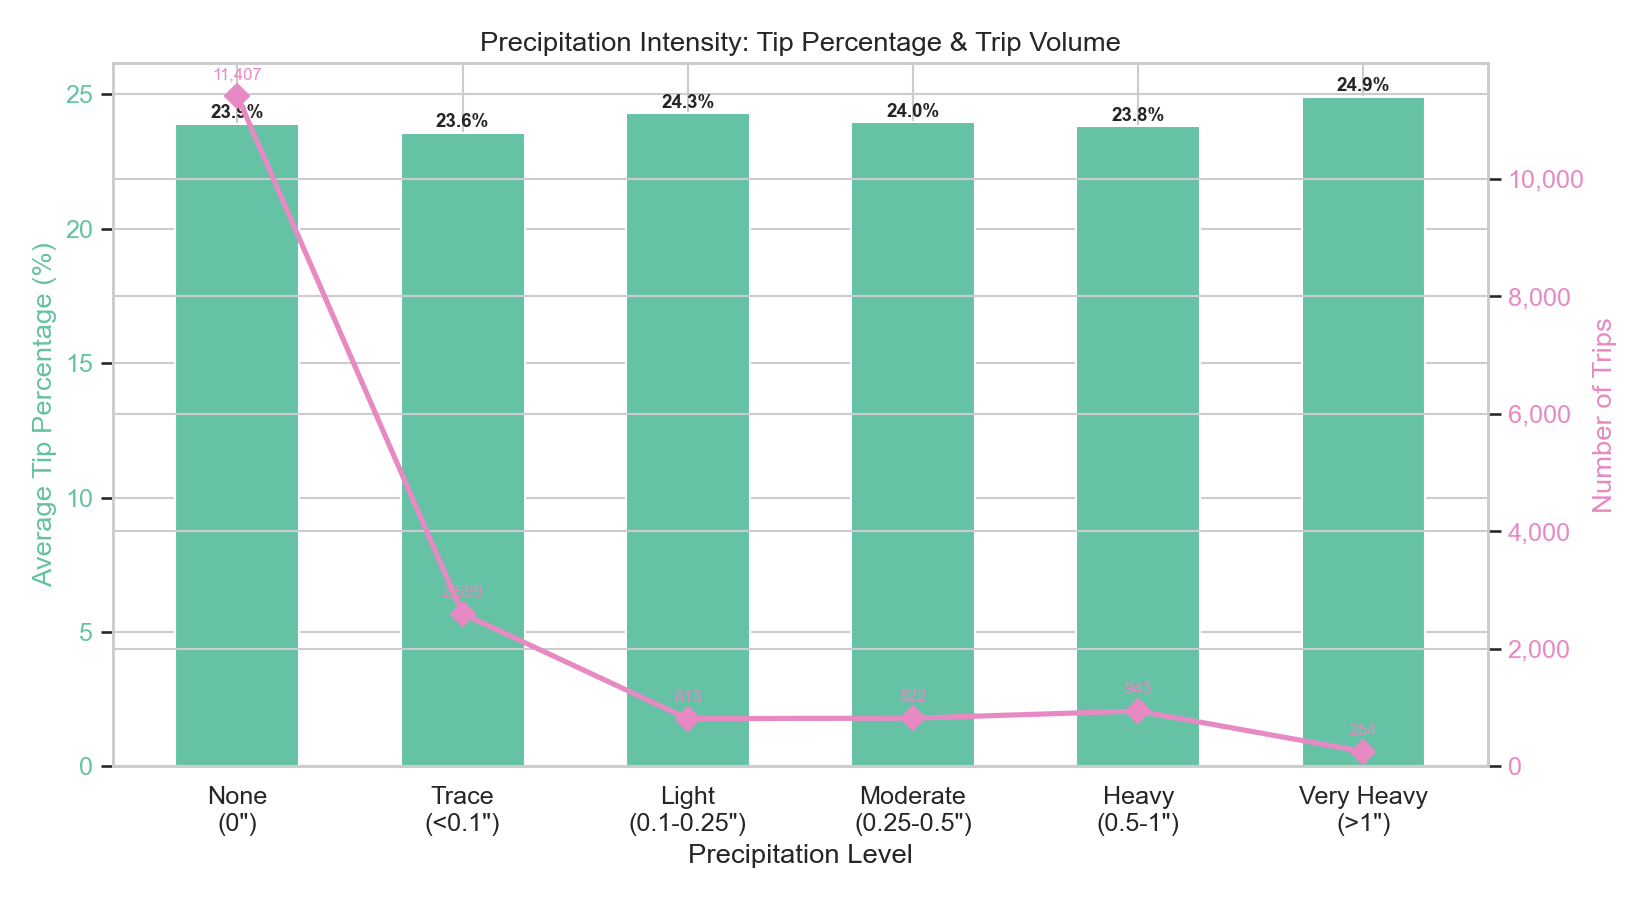
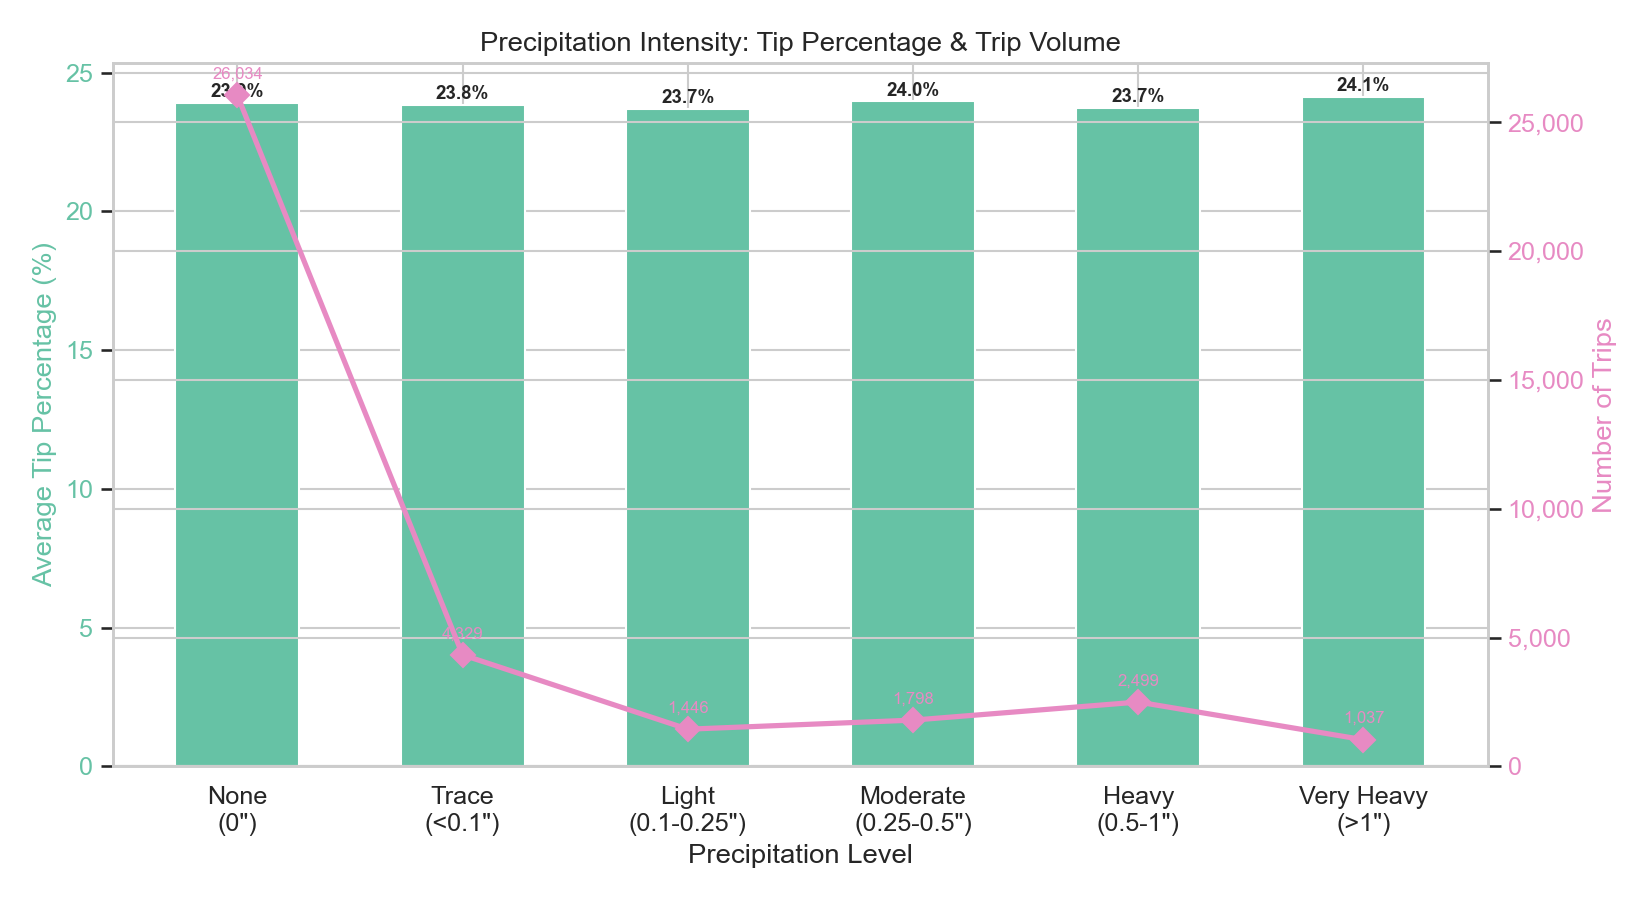
Improved data sampling and fixed all chart issues
- Taxi fetcher: 104 sample days (every Wed + Sat), 8 hour windows
  (0,3,6,9,12,15,18,21) per day = full 24h coverage + weekday/weekend
- Now 6 weather groups: Clear, Light Rain, Heavy Rain, Snow, Freezing, Extreme Heat
- Chart 1: linear trend line instead of quadratic
- Chart 2: x-axis only shows sampled hours (no misleading gaps)
- Chart 5: y-axis starts at 0, labels repositioned
- Chart 6: all 6 weather groups shown, N/A for missing combos
- Chart 7: only shows Wed vs Sat (actual sampled days), no blank cells
- Chart 8: annotations no longer overlap title
- Added key stats summary output (tip pct by weather, hour, month, weekday)

diff --git a/scripts/generate_visualizations.py b/scripts/generate_visualizations.py
@@ -109,10 +109,11 @@ def plot_temp_vs_tip(df):
         ax.scatter(subset["TMAX"], subset["avg_tip_pct"], s=60, alpha=0.75,
                    color=WEATHER_COLORS.get(cond, "gray"), label=cond, edgecolors="white", linewidth=0.8)
 
-    z = np.polyfit(daily["TMAX"], daily["avg_tip_pct"], 2)
+    z = np.polyfit(daily["TMAX"], daily["avg_tip_pct"], 1)
     p = np.poly1d(z)
     x_line = np.linspace(daily["TMAX"].min(), daily["TMAX"].max(), 100)
-    ax.plot(x_line, p(x_line), color="black", linewidth=2, linestyle="--", alpha=0.6, label="Trend")
+    ax.plot(x_line, p(x_line), color="black", linewidth=2, linestyle="--", alpha=0.6,
+            label=f"Linear Trend (slope={z[0]:.3f})")
 
     ax.set_xlabel("Daily Max Temperature (°F)")
     ax.set_ylabel("Average Tip Percentage (%)")
@@ -149,8 +150,10 @@ def plot_hourly_by_weather(df):
     ax.set_xlabel("Hour of Day")
     ax.set_ylabel("Average Tip Percentage (%)")
     ax.set_title("Hourly Tipping Patterns by Weather Condition")
-    ax.set_xticks(range(0, 24))
-    ax.set_xticklabels([f"{h}:00" for h in range(24)], rotation=45, ha="right")
+    # Only label hours we actually have data for
+    sampled_hours = sorted(hourly["pickup_hour"].unique())
+    ax.set_xticks(sampled_hours)
+    ax.set_xticklabels([f"{h}:00" for h in sampled_hours], rotation=45, ha="right")
     ax.legend(title="Weather")
     fig.tight_layout()
     fig.savefig(os.path.join(OUT_DIR, "02_hourly_tip_by_weather.png"), dpi=150)
@@ -281,14 +284,15 @@ def plot_distance_by_weather(df):
         med = subset.median()
         mean = subset.mean()
         n = len(subset)
-        ax.text(i + 1, med + 0.3, f"median: {med:.1f} mi", ha="center", fontsize=8, fontweight="bold")
-        ax.text(i + 1, mean + 0.8, f"mean: {mean:.1f} mi", ha="center", fontsize=8, color="blue")
-        ax.text(i + 1, -1.5, f"n={n:,}", ha="center", fontsize=8, color="gray")
+        q75 = subset.quantile(0.75)
+        ax.text(i + 1, med + 0.2, f"median: {med:.1f} mi", ha="center", fontsize=8, fontweight="bold")
+        ax.text(i + 1, q75 + 1.0, f"mean: {mean:.1f} mi", ha="center", fontsize=8, color="blue")
+        ax.text(i + 1, 16.5, f"n={n:,}", ha="center", fontsize=8, color="gray")
 
     ax.set_xlabel("Weather Condition")
     ax.set_ylabel("Trip Distance (miles)")
     ax.set_title("Trip Distance Distribution by Weather")
-    ax.set_ylim(-2.5, 25)
+    ax.set_ylim(0, 18)
     fig.tight_layout()
     fig.savefig(os.path.join(OUT_DIR, "05_distance_by_weather.png"), dpi=150)
     plt.close(fig)
@@ -307,8 +311,8 @@ def plot_weekend_weekday(df):
         count=("tip_pct", "size"),
     ).reset_index()
 
-    # Only keep groups with at least 50 data points
-    agg = agg[agg["count"] >= 50]
+    # Only keep groups with at least 20 data points
+    agg = agg[agg["count"] >= 20]
 
     order = get_weather_order(cc)
     # Only keep conditions that have both weekday AND weekend data
@@ -362,29 +366,28 @@ def plot_weekend_weekday(df):
 # VIZ 7: Trip Volume Heatmap (Hour x Day of Week) - full 0-23
 # =========================================================================
 def plot_trip_heatmap(df):
-    day_order = ["Monday", "Tuesday", "Wednesday", "Thursday", "Friday", "Saturday", "Sunday"]
+    """Only show the sampled hours (no blank/zero columns)."""
+    # We only sample Wed and Sat, so only those days have data
+    day_order = ["Wednesday", "Saturday"]
 
     pivot = df.pivot_table(
         index="day_name", columns="pickup_hour",
         values="fare_amount", aggfunc="count",
     ).reindex(day_order)
 
-    # Ensure all 24 hours are represented
-    for h in range(24):
-        if h not in pivot.columns:
-            pivot[h] = 0
-    pivot = pivot[sorted(pivot.columns)]
+    # Keep only hours that have data
+    pivot = pivot.loc[:, pivot.sum() > 0]
 
-    fig, ax = plt.subplots(figsize=(16, 5))
+    fig, ax = plt.subplots(figsize=(12, 4))
     sns.heatmap(
         pivot, cmap="YlOrRd", annot=True, fmt=".0f",
         linewidths=0.5, ax=ax, cbar_kws={"label": "Trip Count"},
-        annot_kws={"size": 7},
+        annot_kws={"size": 9},
     )
     ax.set_xlabel("Hour of Day")
     ax.set_ylabel("")
-    ax.set_xticklabels([f"{h}" for h in range(24)])
-    ax.set_title("Trip Volume Heatmap: Day of Week x Hour of Day")
+    ax.set_xticklabels([f"{int(h)}:00" for h in pivot.columns])
+    ax.set_title("Trip Volume: Weekday (Wed) vs. Weekend (Sat) by Hour")
     fig.tight_layout()
     fig.savefig(os.path.join(OUT_DIR, "07_trip_heatmap.png"), dpi=150)
     plt.close(fig)
@@ -418,13 +421,14 @@ def plot_fare_premium(df):
         ax.annotate(
             f"${row.avg_fare_per_mile:.2f}/mi\n({row.count:,} trips)\navg dist: {row.avg_distance:.1f} mi",
             xy=(bar.get_x() + bar.get_width() / 2, bar.get_height()),
-            xytext=(0, 8), textcoords="offset points", ha="center", fontsize=9,
+            xytext=(0, 6), textcoords="offset points", ha="center", fontsize=8,
         )
 
     ax.set_xlabel("Weather Condition")
     ax.set_ylabel("Average Fare per Mile ($)")
-    ax.set_title("Fare Per Mile by Weather Condition")
-    ax.set_ylim(bottom=0)
+    ax.set_title("Fare Per Mile by Weather Condition", pad=20)
+    max_val = agg["avg_fare_per_mile"].max()
+    ax.set_ylim(bottom=0, top=max_val * 1.35)
     fig.tight_layout()
     fig.savefig(os.path.join(OUT_DIR, "08_fare_premium.png"), dpi=150)
     plt.close(fig)
@@ -456,6 +460,55 @@ def main():
     plot_fare_premium(df)
 
     print(f"\nAll charts saved to: {os.path.abspath(OUT_DIR)}/")
+
+    # =====================================================================
+    # KEY STATS SUMMARY
+    # =====================================================================
+    cc = df[(df["tip_pct"].notna())].copy()
+
+    print("\n" + "=" * 70)
+    print("KEY STATISTICS SUMMARY")
+    print("=" * 70)
+
+    print(f"\nTotal records: {len(df):,}")
+    print(f"Credit card trips (with tip data): {len(cc):,}")
+    print(f"Unique dates sampled: {df['pickup_date'].nunique()}")
+    print(f"Date range: {df['pickup_date'].min().date()} to {df['pickup_date'].max().date()}")
+
+    print(f"\n--- Average Tip % by Weather Condition ---")
+    tip_by_weather = cc.groupby("weather_condition").agg(
+        avg_tip_pct=("tip_pct", "mean"),
+        median_tip_pct=("tip_pct", "median"),
+        avg_tip_amt=("tip_amount", "mean"),
+        avg_fare=("fare_amount", "mean"),
+        avg_distance=("trip_distance", "mean"),
+        trip_count=("tip_pct", "size"),
+    ).round(2)
+    print(tip_by_weather.to_string())
+
+    print(f"\n--- Average Tip % by Hour ---")
+    tip_by_hour = cc.groupby("pickup_hour").agg(
+        avg_tip_pct=("tip_pct", "mean"),
+        trip_count=("tip_pct", "size"),
+    ).round(2)
+    print(tip_by_hour.to_string())
+
+    print(f"\n--- Average Tip % by Month ---")
+    tip_by_month = cc.groupby("month").agg(
+        avg_tip_pct=("tip_pct", "mean"),
+        trip_count=("tip_pct", "size"),
+    ).round(2)
+    print(tip_by_month.to_string())
+
+    print(f"\n--- Weekday vs Weekend ---")
+    cc["period"] = cc["is_weekend"].map({True: "Weekend (Sat)", False: "Weekday (Wed)"})
+    tip_by_period = cc.groupby("period").agg(
+        avg_tip_pct=("tip_pct", "mean"),
+        trip_count=("tip_pct", "size"),
+    ).round(2)
+    print(tip_by_period.to_string())
+
+    print("\n" + "=" * 70)
 
 
 if __name__ == "__main__":

diff --git a/dags/utils/taxi_fetcher.py b/dags/utils/taxi_fetcher.py
@@ -1,12 +1,12 @@
 """
 Fetch NYC Yellow Taxi trip data from the Socrata Open Data API.
 
-Uses the sodapy library to paginate through the NYC TLC dataset.
-The data is returned as a list of dicts (JSON records).
+Uses the sodapy library to pull data spread across the full year with
+coverage of all 24 hours.
 """
 
 import logging
-from datetime import datetime
+from datetime import datetime, timedelta
 from typing import Optional
 
 import pandas as pd
@@ -30,50 +30,57 @@ def fetch_taxi_data(
     limit: Optional[int] = None,
 ) -> pd.DataFrame:
     """
-    Fetch Yellow Taxi trip records spread across the full date range.
+    Fetch Yellow Taxi trip records spread across every week of the year,
+    with coverage of all 24 hours.
 
-    Samples from 4 different days per month (1st, 8th, 15th, 22nd) to
-    ensure coverage of all hours, diverse weather conditions, and
-    weekday/weekend representation.
+    Strategy: pick 2 days per week (52 weeks = 104 sample days).
+    For each day, fetch from 4 explicit hour ranges (morning, midday,
+    evening, night) to guarantee full 0-23 hour coverage.
 
     Args:
-        start_date: Inclusive start date (YYYY-MM-DD).
-        end_date:   Inclusive end date   (YYYY-MM-DD).
-        limit:      Max total rows to fetch.  None -> TAXI_FETCH_LIMIT from config.
+        start_date: Inclusive start (YYYY-MM-DD).
+        end_date:   Inclusive end   (YYYY-MM-DD).
+        limit:      Max total rows. Default from config.
 
     Returns:
         pandas DataFrame with taxi trip records.
     """
-    from datetime import timedelta
-
     limit = limit or TAXI_FETCH_LIMIT
     start_dt = datetime.strptime(start_date, "%Y-%m-%d")
     end_dt = datetime.strptime(end_date, "%Y-%m-%d")
 
-    # Build sample days: 4 days per month (1st, 8th, 15th, 22nd)
-    sample_days = [1, 8, 15, 22]
-    date_ranges = []
-    current = start_dt.replace(day=1)
-    while current < end_dt:
-        for day in sample_days:
-            try:
-                day_start = current.replace(day=day)
-            except ValueError:
-                continue
-            if day_start < start_dt or day_start > end_dt:
-                continue
-            day_end = day_start + timedelta(days=1)
-            date_ranges.append((day_start, day_end))
+    # Pick 2 days per week: Wednesday (weekday) and Saturday (weekend)
+    sample_days = []
+    current = start_dt
+    while current <= end_dt:
+        weekday = current.weekday()
+        if weekday == 2:  # Wednesday
+            sample_days.append(current)
+        elif weekday == 5:  # Saturday
+            sample_days.append(current)
+        current += timedelta(days=1)
 
-        if current.month == 12:
-            current = current.replace(year=current.year + 1, month=1, day=1)
-        else:
-            current = current.replace(month=current.month + 1, day=1)
+    # 8 specific 1-hour windows spread across 24h to guarantee
+    # full hour coverage. Each window spans exactly 1 hour.
+    hour_ranges = [
+        ("00:00:00", "01:00:00"),  # hour 0
+        ("03:00:00", "04:00:00"),  # hour 3
+        ("06:00:00", "07:00:00"),  # hour 6
+        ("09:00:00", "10:00:00"),  # hour 9
+        ("12:00:00", "13:00:00"),  # hour 12
+        ("15:00:00", "16:00:00"),  # hour 15
+        ("18:00:00", "19:00:00"),  # hour 18
+        ("21:00:00", "22:00:00"),  # hour 21
+    ]
 
-    per_day = max(limit // len(date_ranges), 200)
+    total_slots = len(sample_days) * len(hour_ranges)
+    per_slot = max(limit // total_slots, 20)
+
     logger.info(
-        "Fetching ~%d records/day across %d sample days (%s to %s), total target: %d",
-        per_day, len(date_ranges), start_date, end_date, limit,
+        "Fetching ~%d records per slot, %d sample days x %d hour ranges = %d slots, "
+        "target: %d total records (%s to %s)",
+        per_slot, len(sample_days), len(hour_ranges), total_slots,
+        limit, start_date, end_date,
     )
 
     client = Socrata(
@@ -90,44 +97,37 @@ def fetch_taxi_data(
     )
 
     all_records = []
+    errors = 0
 
-    # For each sample day, fetch from 6 different offsets to cover all hours.
-    # NYC has ~300K-400K taxi trips/day. Offsets spaced ~50K apart jump
-    # roughly 3-4 hours through the day, giving us coverage of 0-23h.
-    offsets = [0, 50000, 100000, 150000, 200000, 250000]
-    per_offset = max(per_day // len(offsets), 50)
-
-    for day_start, day_end in date_ranges:
-        ds = day_start.strftime("%Y-%m-%dT00:00:00")
-        de = day_end.strftime("%Y-%m-%dT00:00:00")
-        day_str = day_start.strftime("%Y-%m-%d")
+    for day in sample_days:
+        day_str = day.strftime("%Y-%m-%d")
         day_total = 0
 
-        where_clause = (
-            f"tpep_pickup_datetime >= '{ds}' "
-            f"AND tpep_pickup_datetime < '{de}'"
-        )
-
-        for ofs in offsets:
+        for h_start, h_end in hour_ranges:
+            where_clause = (
+                f"tpep_pickup_datetime >= '{day_str}T{h_start}' "
+                f"AND tpep_pickup_datetime < '{day_str}T{h_end}'"
+            )
             try:
                 results = client.get(
                     TAXI_DATASET_ID,
                     where=where_clause,
                     select=select_fields,
-                    limit=per_offset,
-                    offset=ofs,
-                    order="tpep_pickup_datetime ASC",
+                    limit=per_slot,
                 )
                 if results:
                     all_records.extend(results)
                     day_total += len(results)
             except Exception as e:
-                logger.error("    Error fetching %s offset %d: %s", day_str, ofs, e)
+                errors += 1
+                if errors <= 3:
+                    logger.error("  Error fetching %s %s: %s", day_str, h_start, e)
 
-        logger.info("  %s: %d records (6 offsets across the day)", day_str, day_total)
+        if day_total > 0:
+            logger.info("  %s (%s): %d records", day_str, day.strftime("%a"), day_total)
 
     client.close()
-    logger.info("Fetched %d total taxi records.", len(all_records))
+    logger.info("Fetched %d total taxi records (%d errors).", len(all_records), errors)
 
     df = pd.DataFrame(all_records)
     if not df.empty:
@@ -161,6 +161,9 @@ def _clean_taxi_df(df: pd.DataFrame) -> pd.DataFrame:
 
 if __name__ == "__main__":
     logging.basicConfig(level=logging.INFO)
-    df = fetch_taxi_data("2024-01-01", "2024-01-07", limit=1000)
+    df = fetch_taxi_data("2023-01-01", "2023-01-31", limit=2000)
     print(df.head())
     print(f"Shape: {df.shape}")
+    print(f"Unique dates: {df['pickup_date'].nunique()}")
+    print(f"Hour range: {df['pickup_hour'].min()} - {df['pickup_hour'].max()}")
+    print(f"Hour distribution:\n{df['pickup_hour'].value_counts().sort_index()}")
